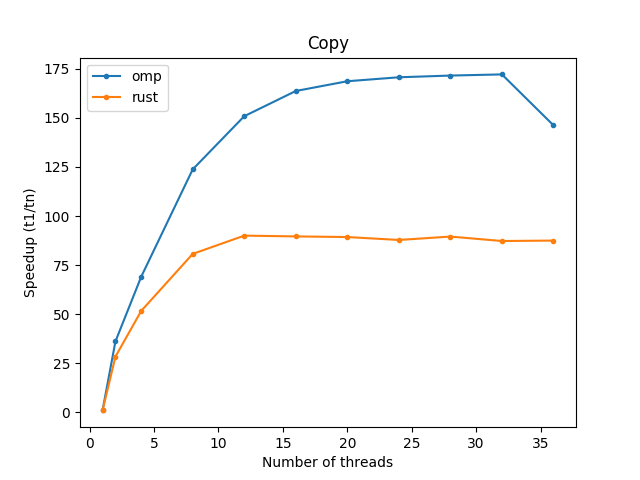
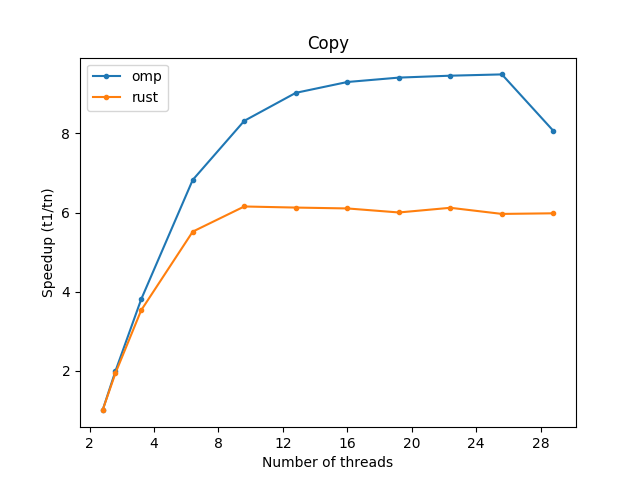
fix speedup issue, added contribution guidelines

diff --git a/babel/babel_stream/src/main.rs b/babel/babel_stream/src/main.rs
@@ -5,8 +5,8 @@ use clap::{Arg, App};
 use std::time::Instant;
 mod stream;
 //use num::traits;
-use std::ops::{AddAssign, DivAssign};
 use std::any::Any;
+use std::ops::{AddAssign, DivAssign};
 use num::Float;
 
 fn main() {
@@ -101,7 +101,7 @@ fn main() {
 }
 
 pub fn run<T>(mut my_stream: stream::RustStream<T>, start_vals: [T;3], array_size: T, num_times: i32) 
-where T: Float + AddAssign<T> + num::Signed + DivAssign<T> + std::fmt::Display + Any + Send + Sync + std::iter::Sum,
+where T: Float + AddAssign<T> + num::Signed + DivAssign<T> + std::fmt::Display + Send + Sync + std::iter::Sum + Any,
 [T]: Send + Sync //+ std::marker::Sized
 {
 
@@ -147,14 +147,15 @@ where T: Float + AddAssign<T> + num::Signed + DivAssign<T> + std::fmt::Display +
     // Print timings
     let labels = vec!["Copy", "Mul", "Add", "Triad", "Dot"];
     println!("Function\tMbytes/sec\tMin (sec)\tMax\t\tAverage");
-    let mem_size: f64;
 
     // Get size of T in bytes. There is probably a more rusty way to do this
-    if Any::is::<f32>(&array_size){
-        mem_size = 4.0;
-    } else {
-        mem_size = 8.0;
-    }
+    //if Any::is::<f32>(&array_size){
+    //    mem_size = 4.0;
+    //} else {
+    //    mem_size = 8.0;
+    //}
+    let mem_size = std::mem::size_of::<T>() as f64;
+
     let size_a = 2.0 * mem_size * my_stream.a.len() as f64;
     let size_b = 3.0 * mem_size * my_stream.a.len() as f64;
 

diff --git a/babel/results/parse.py b/babel/results/parse.py
@@ -24,8 +24,9 @@ def parse_file(f):
 # speedup = t1/tn
 def get_speedup(res):
     i = 0
+    t1 = res[0]
     while i < len(res):
-        res[i] = res[0]/res[i]
+        res[i] = t1/res[i]
         i += 1
 
 if __name__ == '__main__':
@@ -49,6 +50,7 @@ if __name__ == '__main__':
         ax.plot( x_axis, res2[i], label=label2, marker='.')
         ax.set(xlabel='Number of threads', ylabel='Speedup (t1/tn)',
                title=functions[i])
+        ax.set_xticklabels(x_axis)
         ax.legend()
         fig.savefig(functions[i] + '.png')
         i += 1

diff --git a/CONTRIBUTING.md b/CONTRIBUTING.md
@@ -1,0 +1,5 @@
+# DO NOT CONTRIBUTE TO THIS REPOSITORY
+
+Thanks for your interest in fixing my buggy code, but I am unable to accept any corrections as to obey plagarism guidelines, I cannot directly reuse somebody else's code in my dissertation project
+
+# DO NOT CONTRIBUTE TO THIS REPOSITORY
